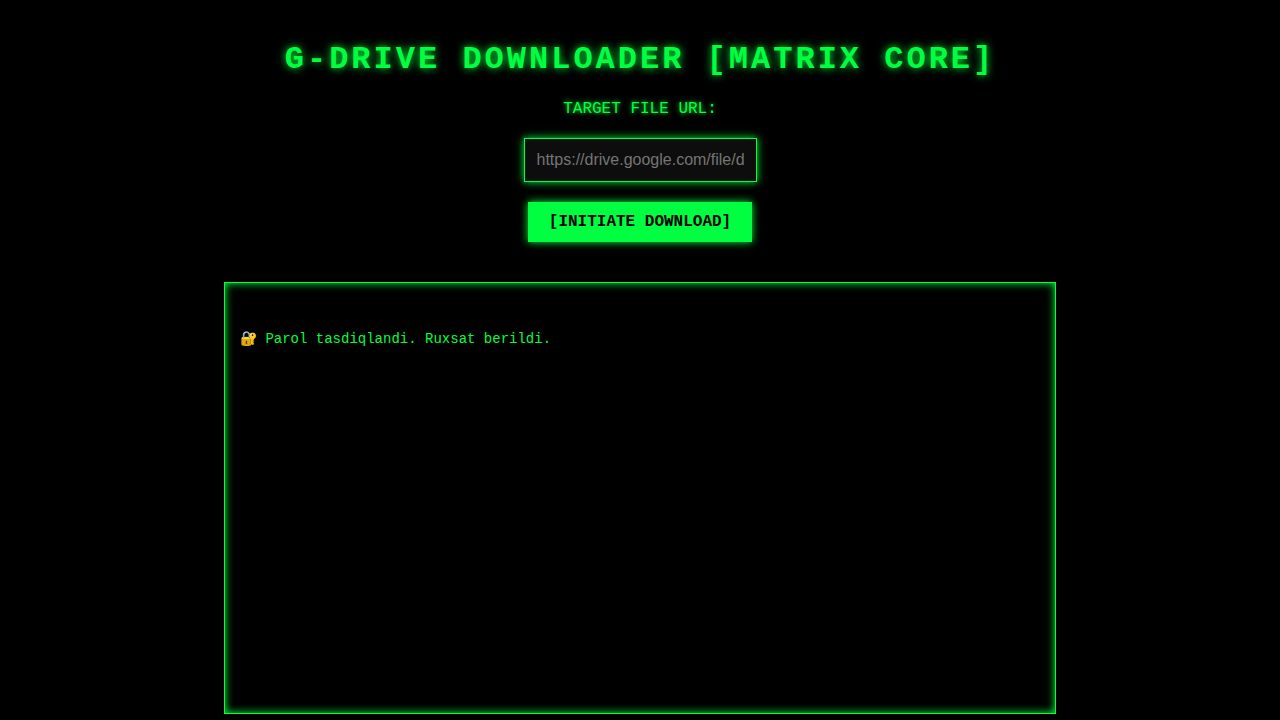
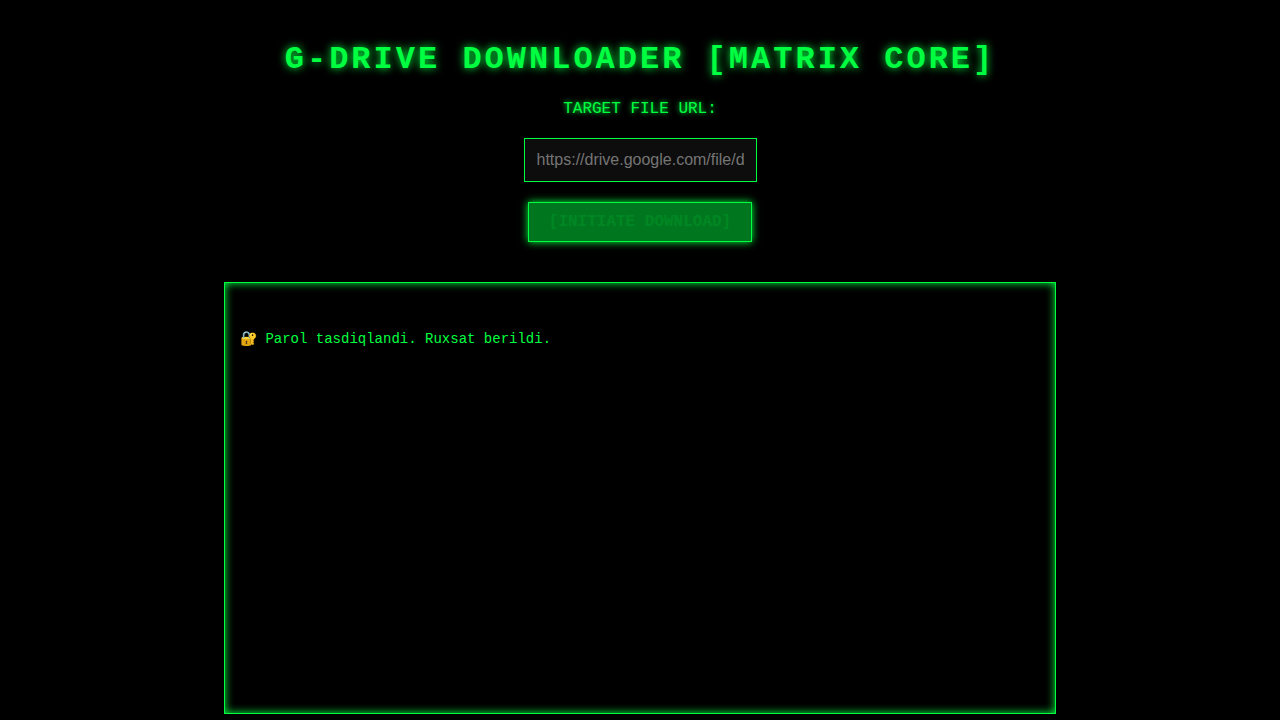
feat: add visual loading feedback to login form submission
- Added immediate visual feedback (disabling button, updating text to '[DECRYPTING...]') when submitting the synchronous login form to prevent duplicate submissions and improve perceived performance.
- Fixed CSS so disabled buttons maintain the Matrix theme (transparent background on hover).
- Added UI test coverage for the loading state in `verify_ux.py`.
- Documented learning in Palette's journal.

Changed region(s): [[0.4062, 0.2444, 0.5938, 0.3361], [0.4062, 0.1833, 0.5938, 0.2139]]

diff --git a/down.php b/down.php
@@ -295,10 +295,11 @@ if ($_SERVER['REQUEST_METHOD'] === 'POST' && isset($_POST['access_password'])) {
         outline: none;
         box-shadow: var(--border-glow);
     }
-    button:disabled {
+    button:disabled, input[type=submit]:disabled {
         border-color: #555;
         color: #555;
         cursor: not-allowed;
+        background: transparent !important;
     }
     .log-window {
         background-color: rgba(0, 0, 0, 0.8);
@@ -358,11 +359,11 @@ if ($_SERVER['REQUEST_METHOD'] === 'POST' && isset($_POST['access_password'])) {
     <h1>G-DRIVE DOWNLOADER [MATRIX CORE]</h1>
 
     <?php if (empty($_SESSION['access_granted'])): ?>
-    <form method="POST">
+    <form method="POST" id="loginForm">
         <label for="access_password">ACCESS CODE REQUIRED:</label>
         <input type="password" name="access_password" id="access_password" placeholder="************" required autofocus />
         <br/>
-        <input type="submit" value="[ENTER]" />
+        <button type="submit" id="loginBtn">[ENTER]</button>
     </form>
     <?php else: ?>
     <form id="downloadForm" novalidate>
@@ -393,6 +394,17 @@ if ($_SERVER['REQUEST_METHOD'] === 'POST' && isset($_POST['access_password'])) {
 
 <script>
 document.addEventListener('DOMContentLoaded', () => {
+    const loginForm = document.getElementById('loginForm');
+    if (loginForm) {
+        loginForm.addEventListener('submit', () => {
+            const loginBtn = document.getElementById('loginBtn');
+            if (loginBtn) {
+                loginBtn.disabled = true;
+                loginBtn.textContent = '[DECRYPTING...]';
+            }
+        });
+    }
+
     const downloadForm = document.getElementById('downloadForm');
     if (!downloadForm) return;
 

diff --git a/verify_ux.py b/verify_ux.py
@@ -28,7 +28,28 @@ def run():
         if page.locator("input[name='access_password']").count() > 0:
             print("Logging in...")
             page.fill("input[name='access_password']", "matrixCore2025")
-            page.click("input[type='submit']")
+
+            # Verify loading state
+            page.evaluate("""
+                document.getElementById('loginForm').addEventListener('submit', (e) => {
+                    e.preventDefault(); // Prevent actual submission to check UI state
+                }, { once: true });
+            """)
+            page.click("#loginBtn")
+
+            # Check if button is disabled and text is changed
+            login_btn = page.locator("#loginBtn")
+            if not login_btn.is_disabled():
+                print("FAILED: Login button is not disabled upon submission")
+                exit(1)
+
+            if login_btn.inner_text() != "[DECRYPTING...]":
+                print(f"FAILED: Login button text is '{login_btn.inner_text()}' instead of '[DECRYPTING...]'")
+                exit(1)
+
+            print("Loading state verified. Proceeding with login...")
+            # Submit normally
+            page.evaluate("document.getElementById('loginForm').submit()")
             page.wait_for_load_state("networkidle")
 
         # Wait for the main page form

diff --git a/.Jules/palette.md b/.Jules/palette.md
@@ -5,3 +5,7 @@
 ## 2026-02-24 - [Themed Focus Visibility]
 **Learning:** Standard browser focus rings often clash with or are invisible in dark/themed interfaces (like Matrix style). Using `box-shadow` to create a "glow" effect provides a high-contrast, theme-appropriate focus indicator that is superior to `outline: none` alone.
 **Action:** Replace default outlines with theme-consistent `box-shadow` or `border` styles for focus states to ensure keyboard accessibility doesn't break immersion.
+
+## 2026-02-25 - [Synchronous Form Feedback]
+**Learning:** Users lack feedback during synchronous form submissions, leading to duplicate clicks and confusion before navigation occurs.
+**Action:** Always provide immediate visual feedback (disabling buttons, showing loading text) via JavaScript even for synchronous forms to improve perceived performance.
